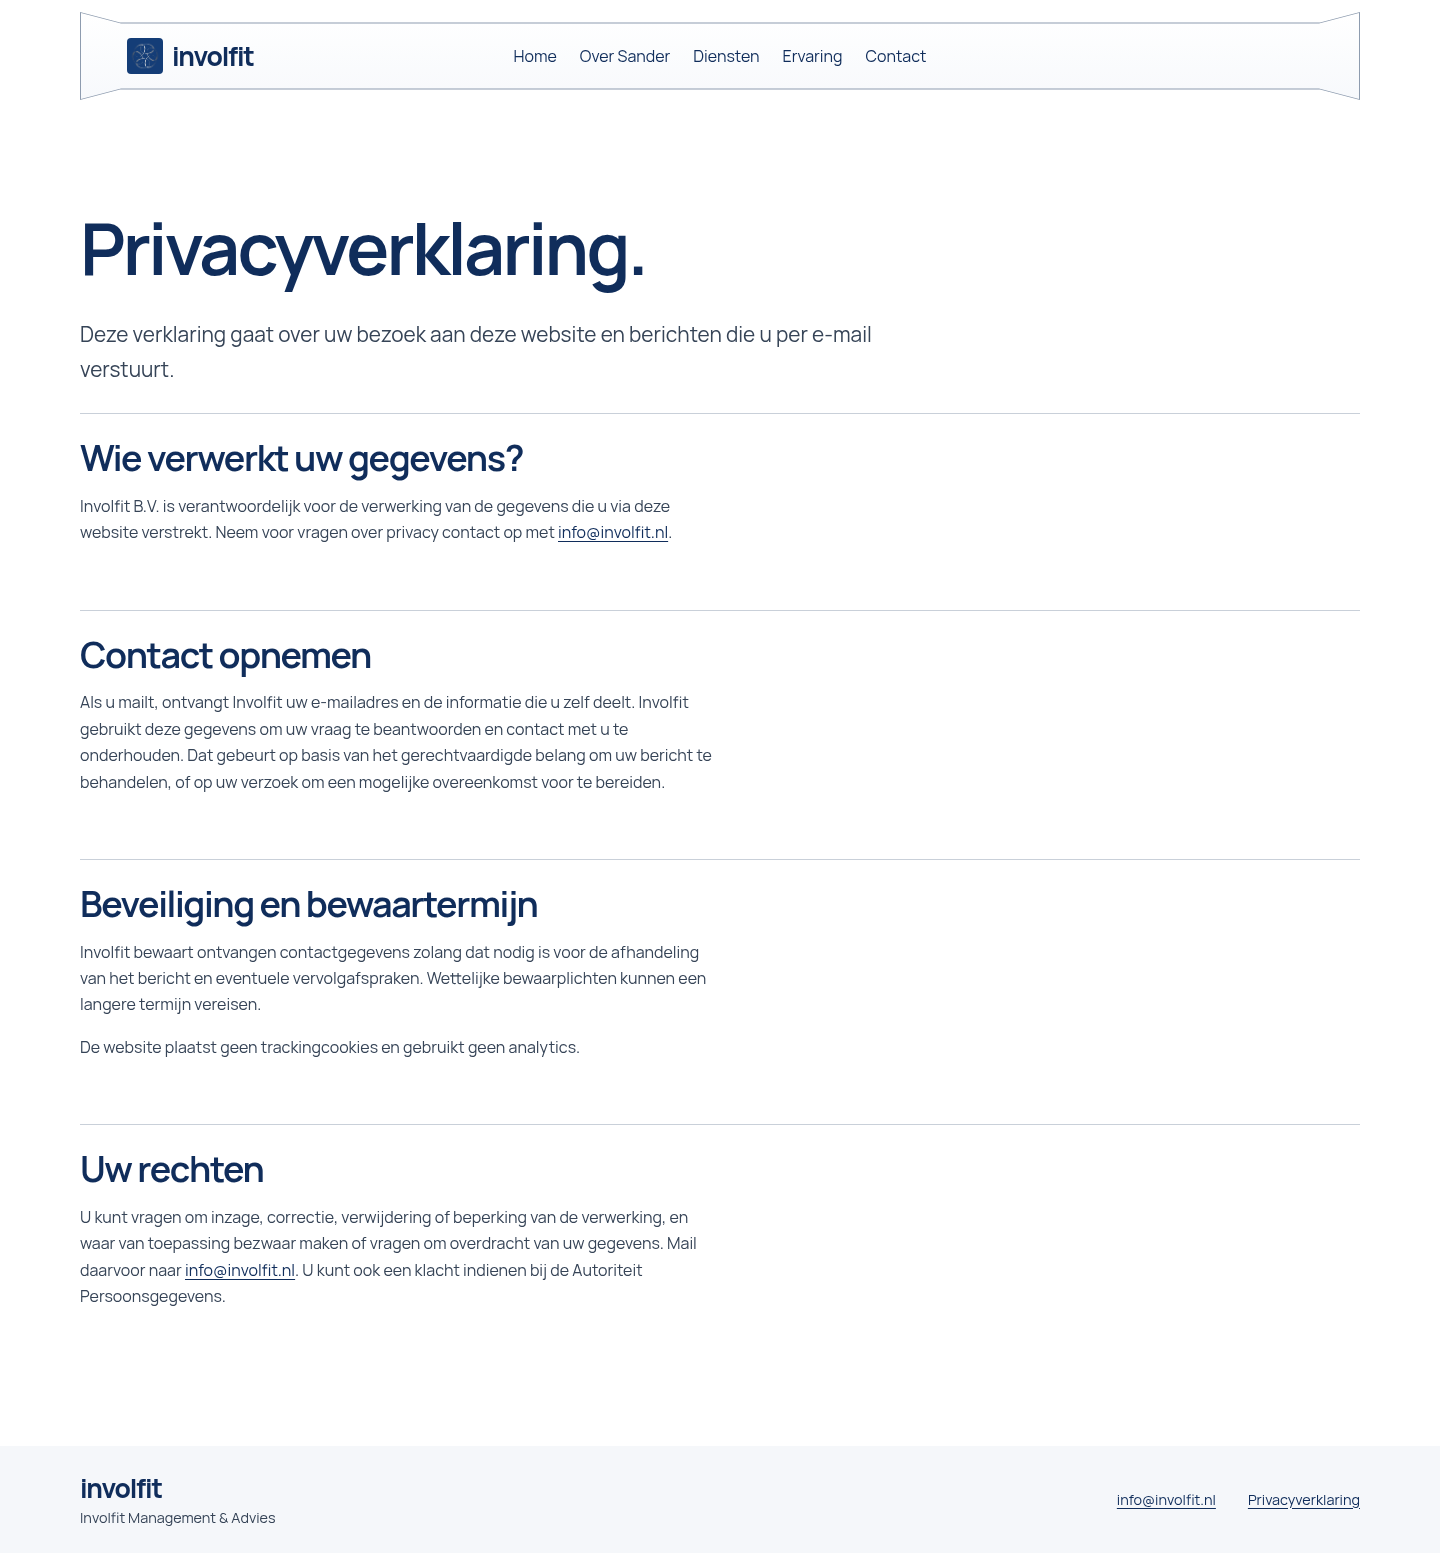
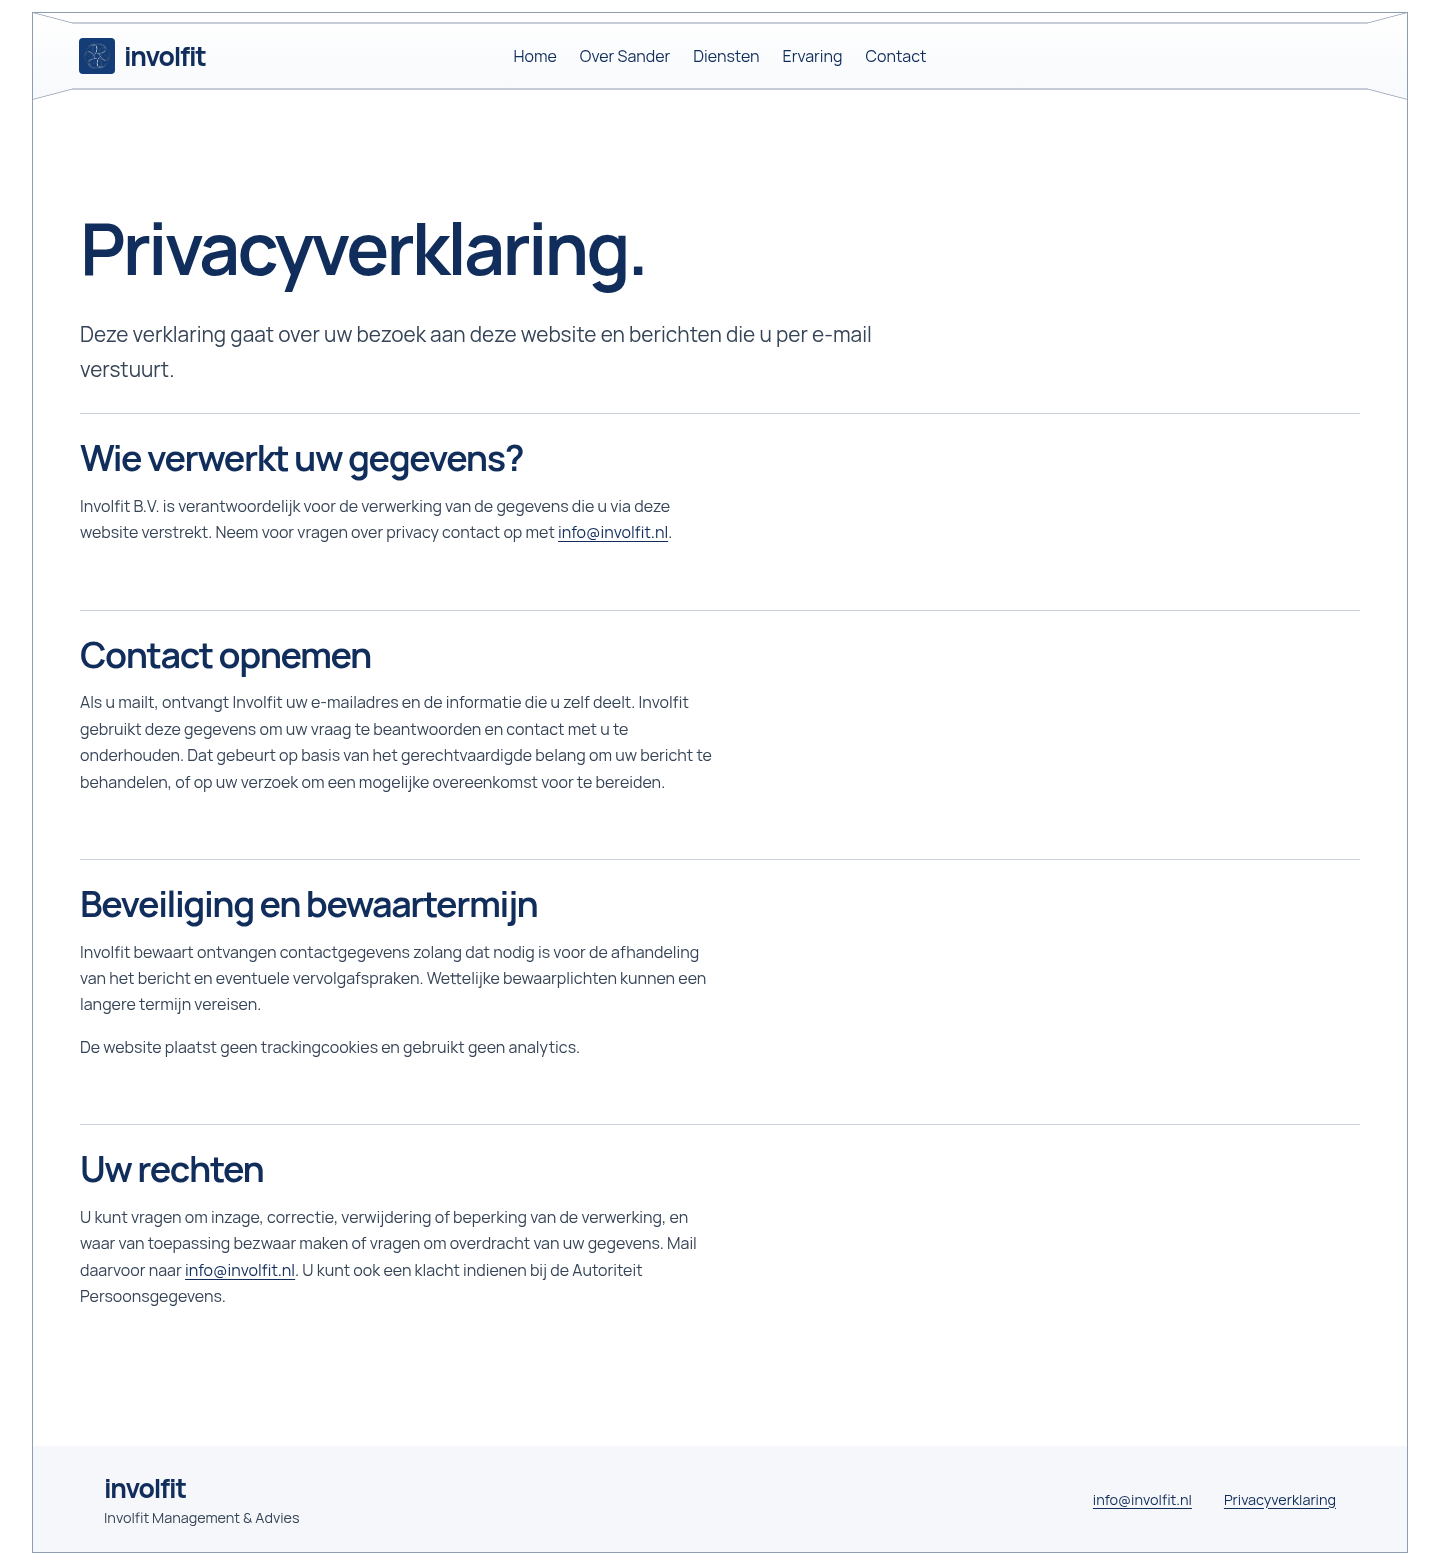
Connect the Involfit navigation to a full page frame

diff --git a/projects/involfit/public/site.css b/projects/involfit/public/site.css
@@ -7,10 +7,32 @@
   --ink: #102d5b;
   --muted: #364457;
   --gutter: clamp(1.25rem, 5vw, 4.5rem);
+  --frame-width: min(calc(100% - 2 * clamp(.55rem, 1.8vw, 1.75rem)), 86rem);
+  --frame-line: #8e9caf;
+  --frame-offset: .75rem;
 }
 
 * { box-sizing: border-box; }
-body { margin: 0; min-height: 100vh; display: flex; flex-direction: column; }
+body {
+  position: relative;
+  margin: 0;
+  padding-block: var(--frame-offset);
+  min-height: 100vh;
+  display: flex;
+  flex-direction: column;
+}
+body::before {
+  content: "";
+  box-sizing: border-box;
+  position: absolute;
+  z-index: 1;
+  inset-block: var(--frame-offset);
+  inset-inline: 0;
+  width: var(--frame-width);
+  margin-inline: auto;
+  border: 1px solid var(--frame-line);
+  pointer-events: none;
+}
 main { flex: 1; }
 .shell { width: min(calc(100% - 2 * var(--gutter)), 80rem); margin-inline: auto; }
 a { color: var(--ink); text-underline-offset: .2em; overflow-wrap: anywhere; }
@@ -39,7 +61,8 @@ h2 { font-size: clamp(1.4rem, 3vw, 2.25rem); font-weight: 650; }
   align-items: center;
   gap: .65rem;
   min-height: 5.5rem;
-  margin-block: .75rem;
+  width: var(--frame-width);
+  margin-bottom: .75rem;
   padding: var(--notch) calc(var(--chamfer) + .45rem);
 }
 
@@ -54,7 +77,7 @@ h2 { font-size: clamp(1.4rem, 3vw, 2.25rem); font-weight: 650; }
     calc(100% - var(--chamfer)) calc(100% - var(--notch)),
     var(--chamfer) calc(100% - var(--notch)), 0 100%);
 }
-.site-header::before { background: #8e9caf; }
+.site-header::before { background: var(--frame-line); }
 .site-header::after { inset: 1px; background: linear-gradient(#fff, #f7f9fc); }
 .site-header > .header-wordmark { justify-self: start; }
 .site-header .desktop-nav { flex-wrap: nowrap; gap: clamp(.65rem, 1.6vw, 1.55rem); }
@@ -66,7 +89,7 @@ h2 { font-size: clamp(1.4rem, 3vw, 2.25rem); font-weight: 650; }
 .site-header nav a { padding-block: .55rem; text-decoration: none; }
 .site-header nav a:hover, .site-header [aria-current="page"] { text-decoration: underline; }
 .mobile-nav { display: none; }
-.site-footer { margin-top: clamp(2.5rem, 7vw, 6rem); background: #f5f7fa; }
+.site-footer { width: var(--frame-width); margin: clamp(2.5rem, 7vw, 6rem) auto 0; background: #f5f7fa; }
 .site-footer .shell { padding-block: 1.5rem; }
 .site-footer p, .footer-links { font-size: .9rem; margin: 0; }
 
@@ -123,7 +146,7 @@ summary { cursor: pointer; min-height: 44px; }
     --notch: .35rem;
     grid-template-columns: 1fr auto;
     min-height: 4rem;
-    margin-block: .5rem;
+    margin-bottom: .5rem;
   }
   .site-header .desktop-nav { display: none; }
   .mobile-nav { display: block; margin-left: auto; }
@@ -141,7 +164,7 @@ summary { cursor: pointer; min-height: 44px; }
   }
   .mobile-nav nav a { min-height: 44px; padding: .65rem .45rem; border-top: 1px solid var(--line); }
   .hero, .introduction { grid-template-columns: minmax(0, 1fr); }
-  .hero { width: 100%; }
+  .hero { width: var(--frame-width); }
   .hero-copy { padding-inline: var(--gutter); }
   .portrait { height: auto; min-height: 0; aspect-ratio: 1; }
   .introduction { gap: .5rem; }
